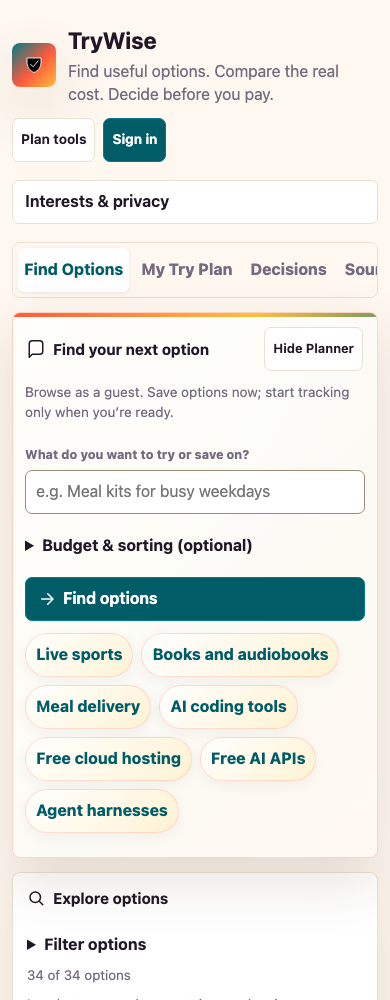
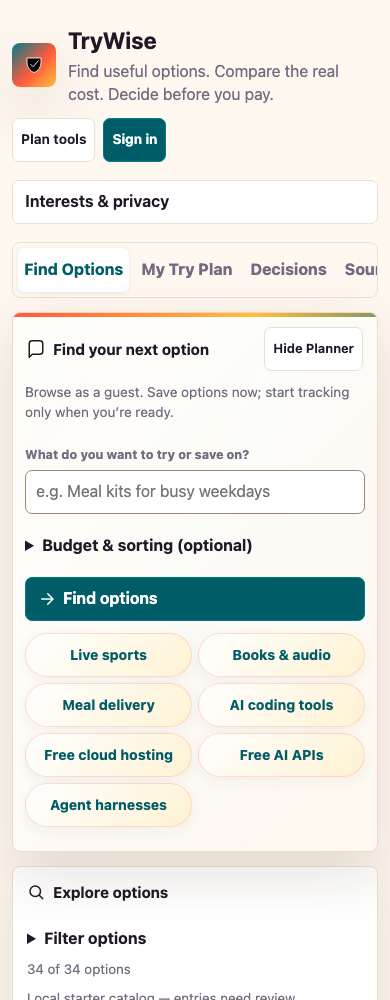
Keep mobile example chips within the discovery depth budget

Changed region(s): [[0.0615, 0.62, 0.9538, 1.0]]

diff --git a/index.html b/index.html
@@ -906,6 +906,8 @@
       .toolbar .btn { width: auto; }
       .hero-panel .panel-body { padding: 12px; }
       .hero-copy p { font-size: .85rem; }
+      .quick-starts { display: grid; grid-template-columns: repeat(2, minmax(0, 1fr)); gap: 6px; }
+      .quick-start { font-size: .875rem; padding-inline: 6px; }
       .offer-facts { grid-template-columns: 1fr 1fr; }
       .tabs { display: flex; overflow-x: auto; }
       .tabs .tab { flex: 0 0 auto; white-space: nowrap; }
@@ -1075,7 +1077,7 @@
                 </form>
                 <div class="quick-starts" aria-label="Quick requirement examples">
                 <button class="quick-start" type="button" data-quick-requirement="Cheapest way to watch live sports and shows">Live sports</button>
-                <button class="quick-start" type="button" data-quick-requirement="Audiobooks and books I can try before paying">Books and audiobooks</button>
+                <button class="quick-start" type="button" data-quick-requirement="Audiobooks and books I can try before paying">Books &amp; audio</button>
                 <button class="quick-start" type="button" data-quick-requirement="Meal delivery services for busy weekdays">Meal delivery</button>
                 <button class="quick-start" type="button" data-quick-requirement="AI coding tools with useful free trials">AI coding tools</button>
                 <button class="quick-start" type="button" data-quick-requirement="Free cloud infrastructure to host my apps">Free cloud hosting</button>
